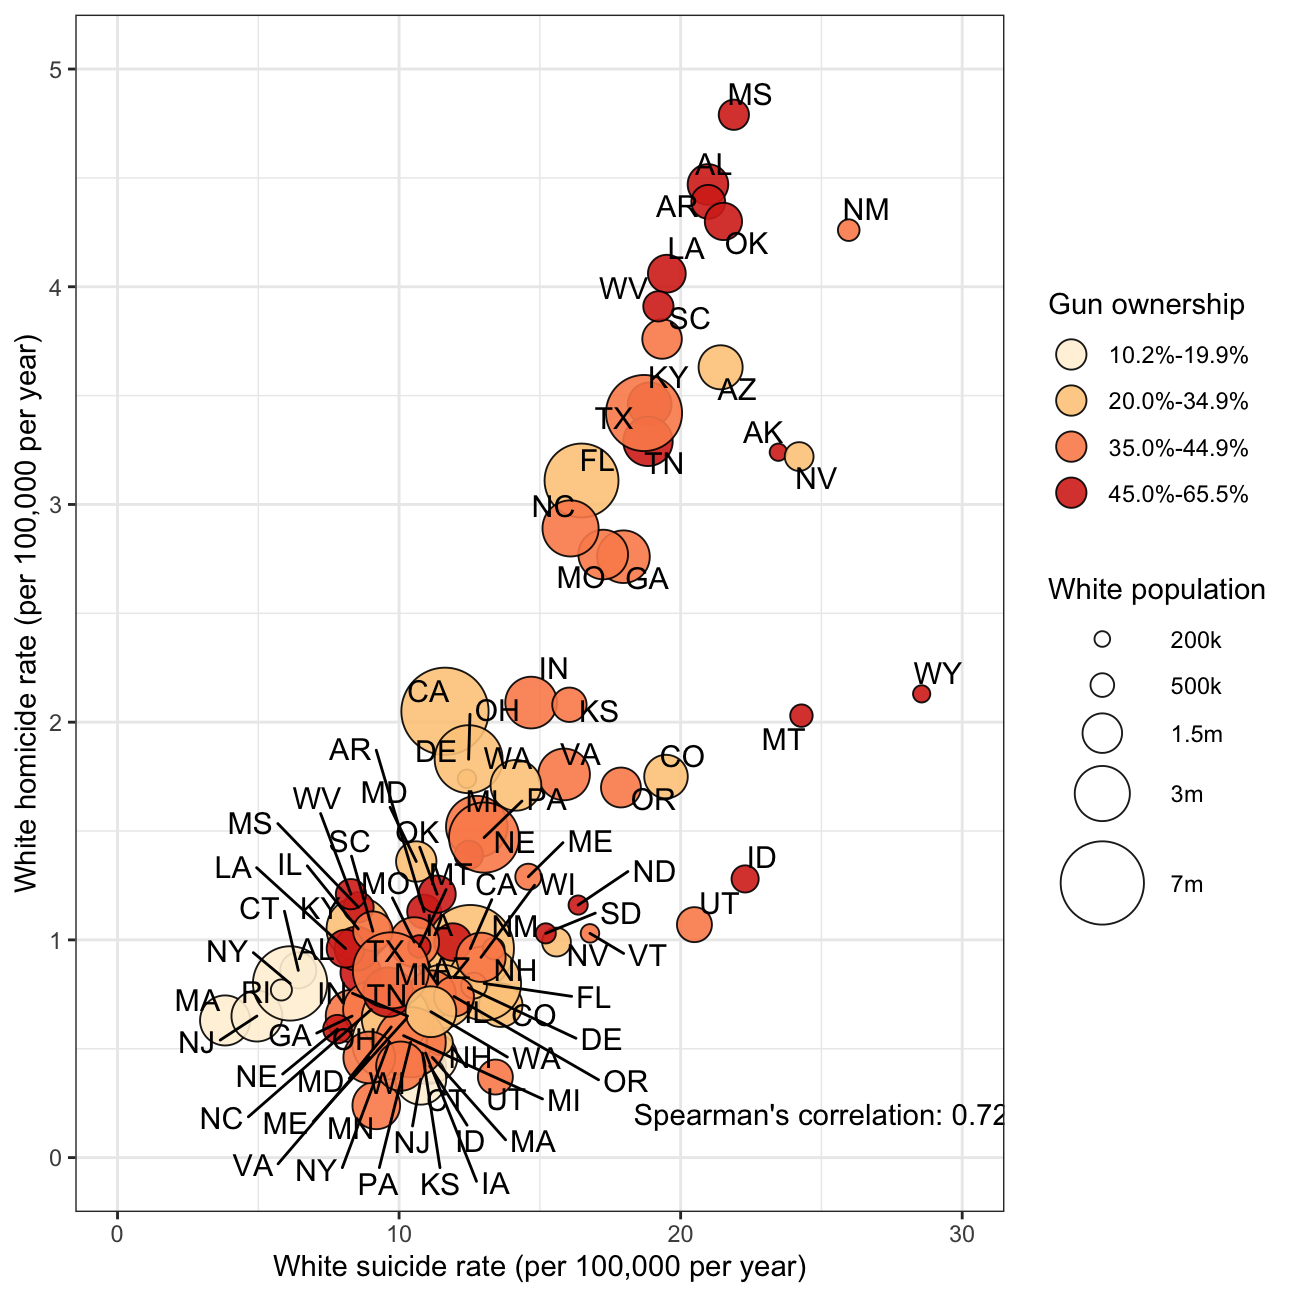
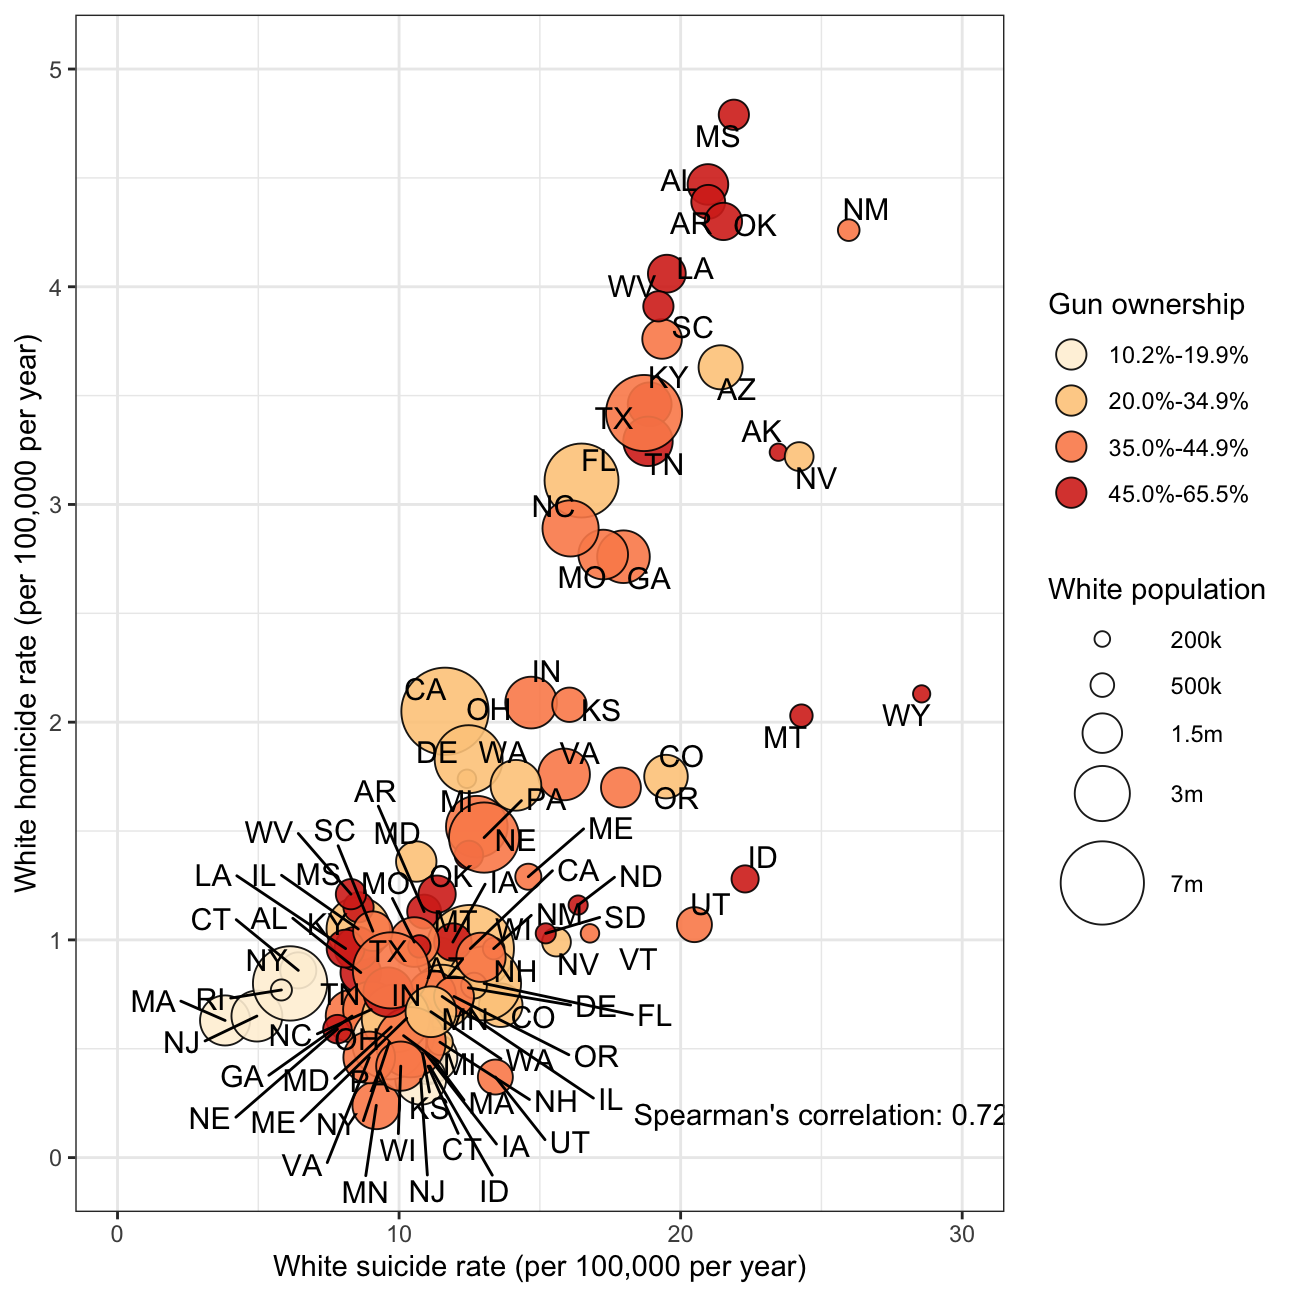
fixing the data, should be good now

diff --git a/content/data_analytics/baby_steps/spearman.html b/content/data_analytics/baby_steps/spearman.html
@@ -1,7 +1,7 @@
 ---
 title: "Just One Graph, How Hard Can It Be"
 author: "Ben Jaletzke"
-date: ""
+date: "2020-10-20"
 summary: "Yes, this 'project' is just a simple graph. The reason I am sharing it is simple: It was the first real encounter with R I've had, and it immediately showed me that I love and hate this language."
 output:
   html_document:
@@ -18,7 +18,7 @@ output:
 <script src="/rmarkdown-libs/anchor-sections/anchor-sections.js"></script>
 
 
-<pre class="r"><code>figure_3 &lt;- read_csv(here::here(&quot;data&quot;, &quot;CDC_Males.csv&quot;))
+<pre class="r"><code>figure_3 &lt;- read_csv(here::here(&quot;content/data_analytics/baby_steps&quot;, &quot;CDC_Males.csv&quot;))
 
 adj_na &lt;- figure_3 %&gt;% 
   filter(!is.na(gun.house.prev.category))</code></pre>

diff --git a/content/data_analytics/yield_curve/yield.html b/content/data_analytics/yield_curve/yield.html
@@ -1,7 +1,7 @@
 ---
 title: "Yield Curve Musings"
 author: "Ben Jaletzke"
-date: ""
+date: "2020-10-20"
 summary: "Some Graphs on the US Yield Curve and Financial Data"
 output:
   html_document:
